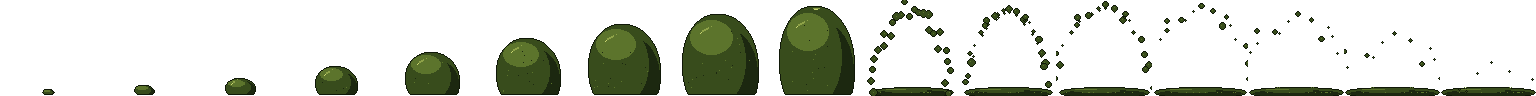
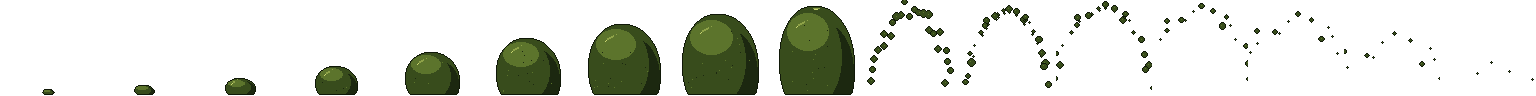
Hydra entrances: ice peaks in the icedra style, mud burst without the pond

Changed region(s): [[0.5625, 0.9062, 1.0, 1.0]]

diff --git a/src/ui/entrances.js b/src/ui/entrances.js
@@ -31,7 +31,7 @@ const FRAMES = { walk: 18, fly: 18, float: 18, rise: 16, jump: 14, blink: 12 };
 const HYDRA_ENTER = { mother: { effect: "mud", reveal: 9 }, icedra: { effect: "ice", reveal: 10 }, hydskon: { effect: "bones", reveal: 11 } };
 const HYDRA_FRAME = 96;
 const HYDRA_ENTER_MS = 120;
-const HYDRA_FADE = 5;               // steps the last frame fades over (the mud pond stays a moment)
+const HYDRA_FADE = 5;               // steps the last frame fades over (the last droplets and shards fade out)
 const OFF_RIGHT = 80;               // sprite px from its place to just past the scene's right edge
 
 export function entranceKind(npc) {

diff --git a/CHANGELOG.md b/CHANGELOG.md
@@ -11,6 +11,7 @@
 - Shrines, statues and inns outside the towns are entered on foot; scene changes fade more slowly.
 - Shrines: the wizard stops a little before the cross, the shrine sound plays once he is inside, and the mystic stays while he walks away.
 - Something to find twinkles on the ground before the wizard walks to it.
+- Hydra entrances redrawn: the ice peaks now match the icedra (black outline, faceted faces) and the mud burst no longer leaves a pond behind.
 - Enemies arrive their own way: flyers glide down, floaters drift in, burrowers rise from the ground, hiders jump in, casters flicker in, the rest walk in.
 - Enemy attacks match their weapons: slash, thrust, smash, shoot, pounce, slam, and chargers run across the scene.
 - Hydras arrive their own way at every head count: the Swamp mother rises from a mud pool, the Tundra icedra breaks out of an iceberg, the Dunes hydskon is built from flying bones (playable in the art dev console as "N heads: arrive").

diff --git a/ideas.md b/ideas.md
@@ -53,6 +53,9 @@ New idea: one line here, its text in the matching file. Nothing here is a commit
 
 Newest first; keep the last three, cut older ones to the archive.
 
+### 2026-11-17: Hydra entrances redrawn
+- Author approved ice option A (icedra-style peaks, burst frames 10-15 unchanged, reveal frame stays) and the mud burst without the pond (its fade-out was not polished). Option B rejected. Swapped the two strips, fixed the HYDRA_FADE comment; fade logic untouched.
+
 ### 2026-11-17: Shrine walk
 - The author's shrine notes: he now stops a little before the cross (offset 22, clear of every zone's cross), the shrine sound plays once he is in the shrine (not before he walks there), the mystic stays while he walks back out to the left and goes with the scene. The 'not walking to or from shrines' note predated the walk-in and walk-back. Checked by a headless playtest run (no errors); not watched in a browser.
 
